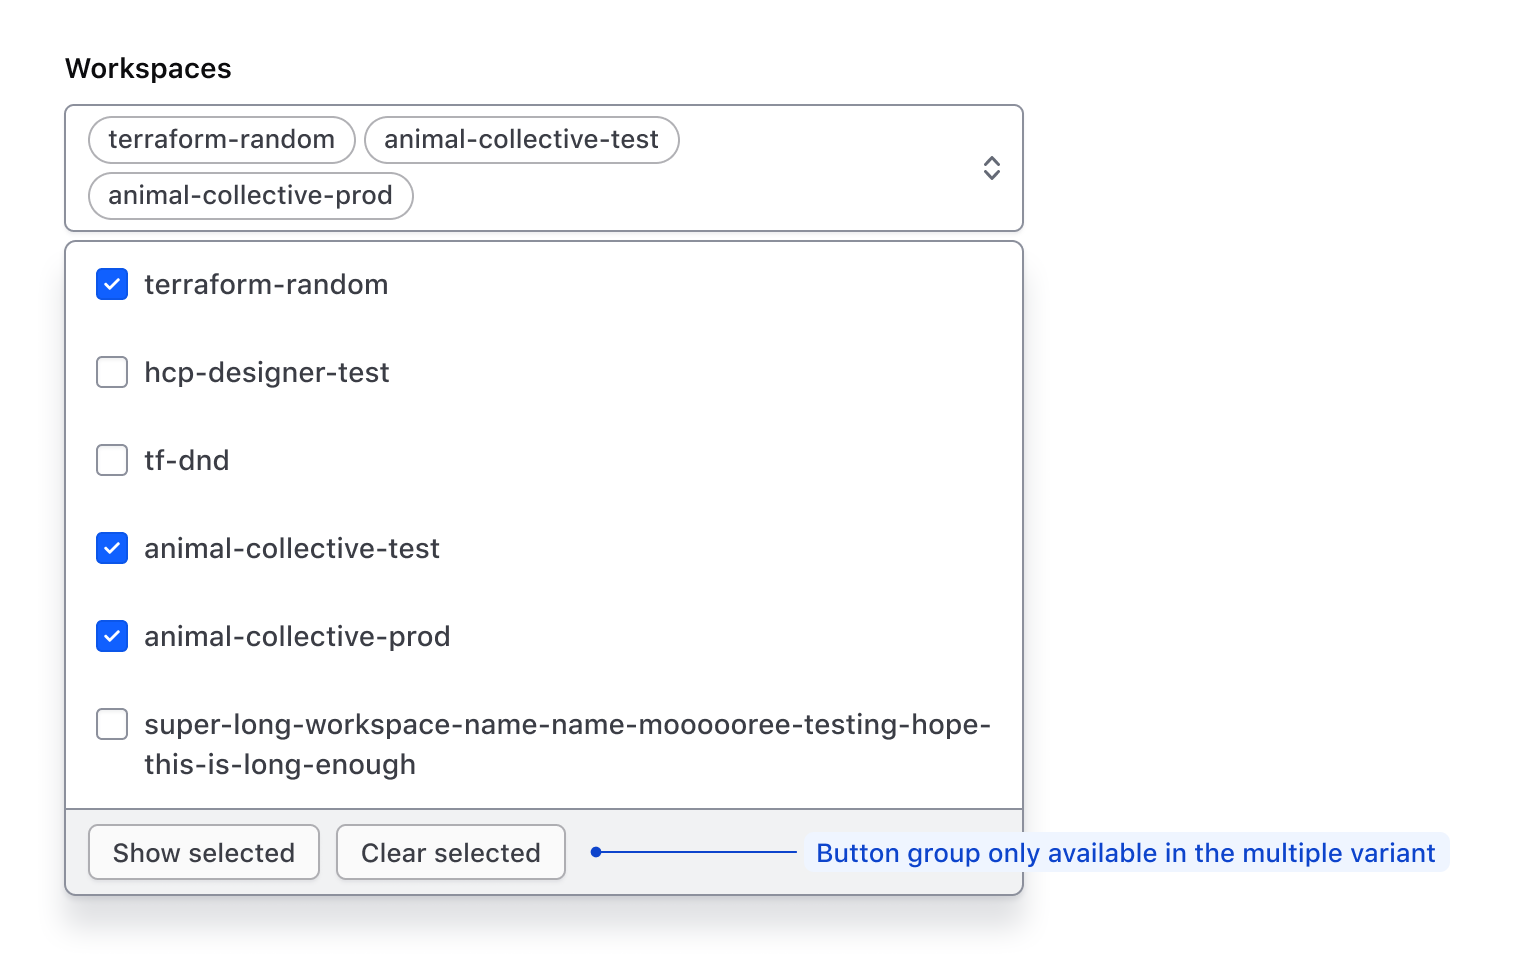
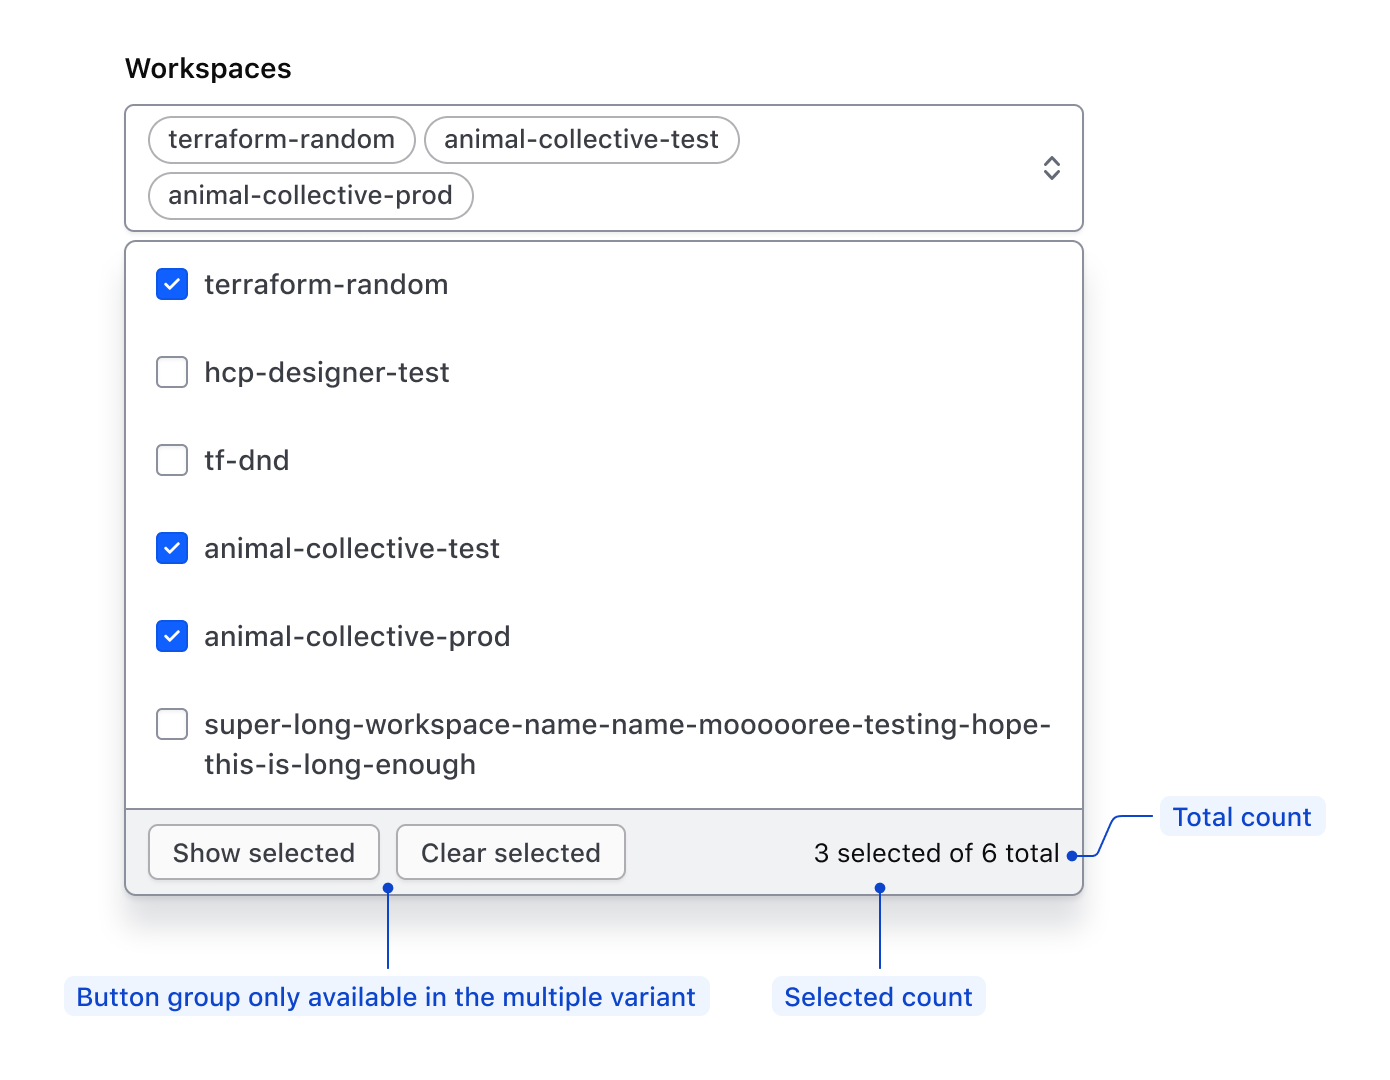
Updated multiple variant footer to also reflect counter, update image as well.

diff --git a/website/docs/components/form/super-select/partials/guidelines/guidelines.md b/website/docs/components/form/super-select/partials/guidelines/guidelines.md
@@ -78,7 +78,7 @@ The footer defaults to visible and shows a total counter, which is customizable 
 ![Custom content enabled before the list in both single and multiple variants](/assets/components/form/super-select/super-select-single-variant-footer-with-counter.png =626x*)
 
 ##### Multiple variant
-The afterOptions and footer default to visible. This pattern allows users to expedite the deselection process.
+The afterOptions and footer default to visible. This buttons allow users to expedite the deselection process. The counter (selected / total) is optional. Either both or individually may be shown.
 
 ![Custom content enabled before the list in both single and multiple variants](/assets/components/form/super-select/super-select-multiple-variant-footer-without-counter.png =757x*)
 
